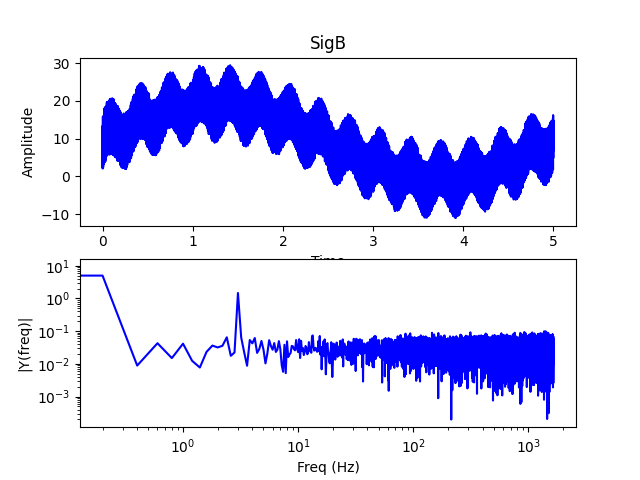
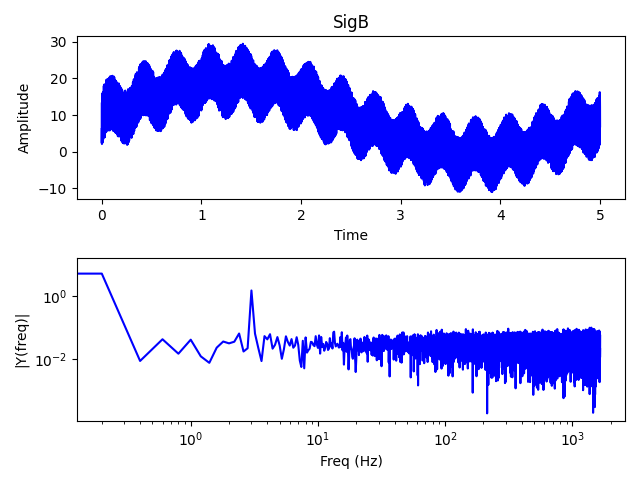
FIR implemented

diff --git a/HW9/python_fft.py b/HW9/python_fft.py
@@ -2,8 +2,280 @@ import matplotlib.pyplot as plt
 import numpy as np
 import csv
 
+w1 = [
+    0.001867519746044820,
+    0.002275293677911463,
+    0.002692845467883248,
+    0.003119400211540369,
+    0.003554151391578438,
+    0.003996262853518041,
+    0.004444870878876082,
+    0.004899086349965267,
+    0.005357997000181999,
+    0.005820669743355830,
+    0.006286153075466025,
+    0.006753479541784039,
+    0.007221668262275161,
+    0.007689727507889525,
+    0.008156657320192493,
+    0.008621452166627776,
+    0.009083103623574271,
+    0.009540603079249766,
+    0.009992944448431896,
+    0.010439126890909214,
+    0.010878157525543523,
+    0.011309054131818317,
+    0.011730847830767882,
+    0.012142585737226980,
+    0.012543333575412086,
+    0.012932178249941664,
+    0.013308230364524597,
+    0.013670626680692492,
+    0.014018532509122373,
+    0.014351144026291085,
+    0.014667690509420725,
+    0.014967436482914990,
+    0.015249683769748768,
+    0.015513773441556675,
+    0.015759087661469738,
+    0.015985051414072162,
+    0.016191134117190663,
+    0.016376851110586923,
+    0.016541765016997088,
+    0.016685486971350718,
+    0.016807677714403370,
+    0.016908048547430839,
+    0.016986362145057821,
+    0.017042433223728004,
+    0.017076129063764694,
+    0.017087369883420026,
+    0.017076129063764694,
+    0.017042433223728004,
+    0.016986362145057821,
+    0.016908048547430839,
+    0.016807677714403370,
+    0.016685486971350718,
+    0.016541765016997088,
+    0.016376851110586923,
+    0.016191134117190663,
+    0.015985051414072162,
+    0.015759087661469738,
+    0.015513773441556675,
+    0.015249683769748768,
+    0.014967436482914990,
+    0.014667690509420725,
+    0.014351144026291085,
+    0.014018532509122373,
+    0.013670626680692492,
+    0.013308230364524597,
+    0.012932178249941664,
+    0.012543333575412086,
+    0.012142585737226980,
+    0.011730847830767882,
+    0.011309054131818317,
+    0.010878157525543523,
+    0.010439126890909214,
+    0.009992944448431896,
+    0.009540603079249766,
+    0.009083103623574271,
+    0.008621452166627776,
+    0.008156657320192493,
+    0.007689727507889525,
+    0.007221668262275161,
+    0.006753479541784039,
+    0.006286153075466025,
+    0.005820669743355830,
+    0.005357997000181999,
+    0.004899086349965267,
+    0.004444870878876082,
+    0.003996262853518041,
+    0.003554151391578438,
+    0.003119400211540369,
+    0.002692845467883248,
+    0.002275293677911463,
+    0.001867519746044820,
+]
+w2 = [
+    0.000000000000000000,
+    -0.000000733187507994,
+    -0.000002514832169553,
+    -0.000004663189391103,
+    -0.000006411912043391,
+    -0.000006894650075208,
+    -0.000005128921027786,
+    0.000000000000000000,
+    0.000009754363726571,
+    0.000025557561404639,
+    0.000049005219802397,
+    0.000081872943140811,
+    0.000126119913694109,
+    0.000183887634646637,
+    0.000257493196406908,
+    0.000349416569001100,
+    0.000462281565774996,
+    0.000598830284134460,
+    0.000761891003573286,
+    0.000954339705406193,
+    0.001179055567694072,
+    0.001438870977808257,
+    0.001736516788789889,
+    0.002074563718984522,
+    0.002455360952379098,
+    0.002880973134926539,
+    0.003353117075610483,
+    0.003873099546309844,
+    0.004441757628542494,
+    0.005059403075507749,
+    0.005725772142930002,
+    0.006439982291319788,
+    0.007200497075605886,
+    0.008005100416757878,
+    0.008850881296018204,
+    0.009734229728566586,
+    0.010650844663521859,
+    0.011595754225546215,
+    0.012563348464977427,
+    0.013547424523904094,
+    0.014541243860821495,
+    0.015537600912594417,
+    0.016528902315624129,
+    0.017507255564510497,
+    0.018464565762032634,
+    0.019392638914479399,
+    0.020283290056267139,
+    0.021128454351758700,
+    0.021920299223858908,
+    0.022651335501065052,
+    0.023314525559019444,
+    0.023903386460090124,
+    0.024412086164923179,
+    0.024835531002085399,
+    0.025169442733675097,
+    0.025410423743004226,
+    0.025556009091159522,
+    0.025604704437664948,
+    0.025556009091159525,
+    0.025410423743004226,
+    0.025169442733675097,
+    0.024835531002085399,
+    0.024412086164923172,
+    0.023903386460090128,
+    0.023314525559019444,
+    0.022651335501065056,
+    0.021920299223858911,
+    0.021128454351758696,
+    0.020283290056267146,
+    0.019392638914479399,
+    0.018464565762032644,
+    0.017507255564510504,
+    0.016528902315624129,
+    0.015537600912594422,
+    0.014541243860821501,
+    0.013547424523904100,
+    0.012563348464977434,
+    0.011595754225546215,
+    0.010650844663521864,
+    0.009734229728566589,
+    0.008850881296018210,
+    0.008005100416757878,
+    0.007200497075605891,
+    0.006439982291319788,
+    0.005725772142930000,
+    0.005059403075507749,
+    0.004441757628542499,
+    0.003873099546309850,
+    0.003353117075610484,
+    0.002880973134926539,
+    0.002455360952379100,
+    0.002074563718984522,
+    0.001736516788789891,
+    0.001438870977808259,
+    0.001179055567694071,
+    0.000954339705406193,
+    0.000761891003573287,
+    0.000598830284134461,
+    0.000462281565774996,
+    0.000349416569001100,
+    0.000257493196406908,
+    0.000183887634646636,
+    0.000126119913694109,
+    0.000081872943140812,
+    0.000049005219802397,
+    0.000025557561404639,
+    0.000009754363726571,
+    0.000000000000000000,
+    -0.000005128921027786,
+    -0.000006894650075208,
+    -0.000006411912043391,
+    -0.000004663189391103,
+    -0.000002514832169553,
+    -0.000000733187507994,
+    0.000000000000000000,
+]
+w3 = [
+    -0.000000000000000003,
+    0.009489865835136195,
+    0.047599359273529158,
+    0.121261259186275366,
+    0.202402690898081855,
+    0.238493649613954889,
+    0.202402690898081855,
+    0.121261259186275394,
+    0.047599359273529186,
+    0.009489865835136200,
+    -0.000000000000000003,
+]
+w4 = [
+    0.000000000000000000,
+    0.000013345461113027,
+    0.000074628325145084,
+    0.000221840136667604,
+    0.000503089050699102,
+    0.000977933487489023,
+    0.001716811061404203,
+    0.002798105609275850,
+    0.004302721212771339,
+    0.006306412706846188,
+    0.008870504732950237,
+    0.012031960283269912,
+    0.015793983968478750,
+    0.020118426124570966,
+    0.024921170591889922,
+    0.030071442399851649,
+    0.035395584801464423,
+    0.040685371133555401,
+    0.045710393533975331,
+    0.050233572691654620,
+    0.054028424473579854,
+    0.056896454751228141,
+    0.058682970302180941,
+    0.059289706319876699,
+    0.058682970302180948,
+    0.056896454751228141,
+    0.054028424473579854,
+    0.050233572691654640,
+    0.045710393533975338,
+    0.040685371133555401,
+    0.035395584801464423,
+    0.030071442399851669,
+    0.024921170591889922,
+    0.020118426124570963,
+    0.015793983968478739,
+    0.012031960283269916,
+    0.008870504732950243,
+    0.006306412706846191,
+    0.004302721212771345,
+    0.002798105609275851,
+    0.001716811061404202,
+    0.000977933487489024,
+    0.000503089050699102,
+    0.000221840136667604,
+    0.000074628325145085,
+    0.000013345461113028,
+    0.000000000000000000,
+]
 
-def filters(name, n_avg, A, B, w):
+def filters(name, n_avg, A, B, w, fl, bl, typ):
     t = []
     meas = []
 
@@ -34,6 +306,7 @@ def filters(name, n_avg, A, B, w):
     ax2.set_xlabel('Freq (Hz)')
     ax2.set_ylabel('|Y(freq)|')
     ax1.set_title('Sig' + name)
+    fig.tight_layout()
     plt.savefig('plots/Sig' + name + '_fft.png')
 
     ### 5 Moving Average ###
@@ -49,6 +322,7 @@ def filters(name, n_avg, A, B, w):
     ax1.set_xlabel('Time')
     ax1.set_ylabel('Amplitude')
     ax1.set_title('Mov Avg Sig' + name + ' (n=' + str(n_avg) + ')')
+    fig2.tight_layout()
     plt.savefig('plots/Sig' + name + '_movavg.png')
 
     ### 6 IIR ###
@@ -62,7 +336,8 @@ def filters(name, n_avg, A, B, w):
     ax1.plot(t, iir, 'r')
     ax1.set_xlabel('Time')
     ax1.set_ylabel('Amplitude')
-    ax1.set_title('IIR Sig' + name + ', A =' + str(A) + ', B =' + str(B))
+    ax1.set_title('IIR Sig' + name + ', A=' + str(A) + ', B=' + str(B))
+    fig3.tight_layout()
     plt.savefig('plots/Sig' + name + '_iir.png')
 
     ### 7 FIR ###
@@ -71,7 +346,7 @@ def filters(name, n_avg, A, B, w):
     w = np.array(w)
     meas = np.array(meas)
     for i in range(len(meas)-l):
-        fir.append(np.dot(w.T,meas[i:i+l])/l) #TODO
+        fir.append(np.dot(w.T,meas[i:i+l])) #TODO
     t_fir = t[l:]
 
     fig4, ax1 = plt.subplots()
@@ -79,7 +354,8 @@ def filters(name, n_avg, A, B, w):
     ax1.plot(t_fir, fir, 'r')
     ax1.set_xlabel('Time')
     ax1.set_ylabel('Amplitude')
-    ax1.set_title('FIR Sig' + name + 'n = ' + str(l)) #TODO
+    ax1.set_title('FIR Sig' + name + ', $n=$ ' + str(l) + ', $f_{L}=$ ' + str(fl) + '$Hz$, $b_{L}=$' + str(bl) + '$Hz$, ' + typ) #TODO: give further details (check Git syllabus)
+    fig4.tight_layout()
     plt.savefig('plots/Sig' + name + '_fir.png')
 
 
@@ -87,26 +363,37 @@ name = 'A'
 n_avg = 400 # mov avg
 A = 0.9965 # IIR
 B = 0.0035 # IIR
-w = [1,1,1,1,1,1,1,1,1,1]
-filters(name, n_avg, A, B, w)
+fl = 100
+bl = 100
+typ = 'Lowpass'
+filters(name, n_avg, A, B, w1, fl, bl, typ)
 
 name = 'B'
 n_avg = 100 # mov avg
 A = 0.985 # IIR
 B = 0.015 # IIR
-filters(name, n_avg, A, B, w)
+fl = 33
+bl = 132
+typ = 'Lowpass'
+filters(name, n_avg, A, B, w2, fl, bl, typ)
 
 name = 'C'
 n_avg = 1 # mov avg
 A = 0 # IIR
 B = 1 # IIR
-filters(name, n_avg, A, B, w)
+fl = 25
+bl = 1225
+typ = 'Lowpass'
+filters(name, n_avg, A, B, w3, fl, bl, typ)
 
 name = 'D'
 n_avg = 45 # mov avg
 A = 0.94 # IIR
 B = 0.06 # IIR
-filters(name, n_avg, A, B, w)
+fl = 8
+bl = 40
+typ = 'Lowpass'
+filters(name, n_avg, A, B, w4, fl, bl, typ)
 
 
 
